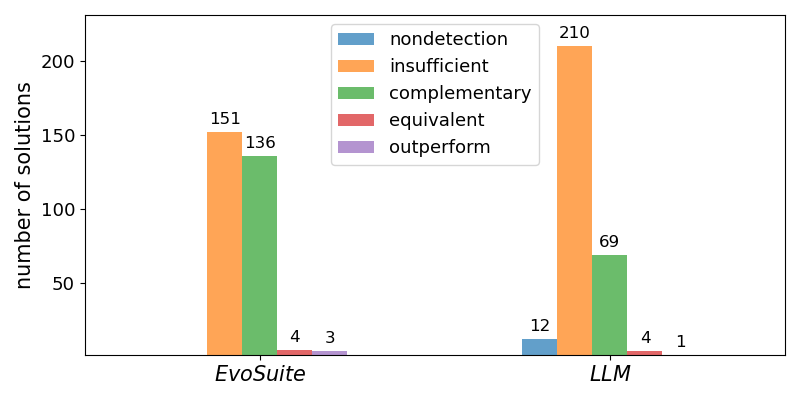
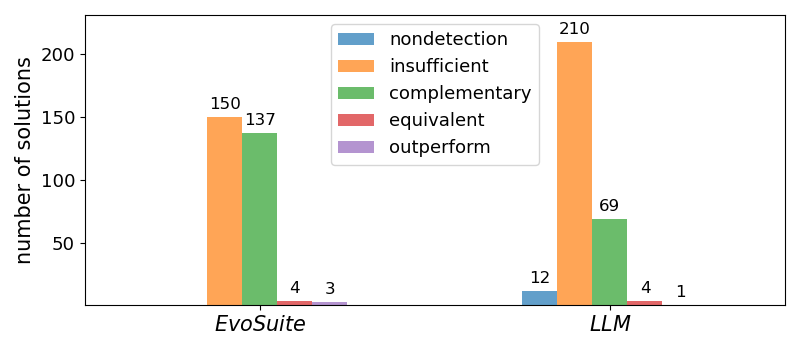
update RQ1 figure

diff --git a/src/evaluation/test_gen_results.py b/src/evaluation/test_gen_results.py
@@ -15,7 +15,7 @@ class TestGen:
         """
         self.root = Path("/Users/ruizhengu/Projects")
         self.project_home = self.root / "ICST-2025-Assignment-Projects"
-        self.generated_tests_path = self.project_home / "resource/test_gen/evosuite_7"
+        self.generated_tests_path = self.project_home / "resource/test_gen/evosuite_10"
         # self.generated_tests_path = self.project_home / "resource/test_gen/Edu_LLM"
         self.generated_tests = list(self.generated_tests_path.rglob("*"))
         self.model_solution = Path("/Users/ruizhengu/Experiments/model_solution")
@@ -24,7 +24,7 @@ class TestGen:
                                 submission.is_dir() and submission.name != ".git"]
         self.method_file_json = self.project_home / "resource/method_files.json"
         self.method_of_interest_file_json = self.project_home / "resource/method_of_interest_test.json"
-        self.method_coverage_gen_json = self.project_home / "resource/method_coverage_evosuite_7.json"
+        self.method_coverage_gen_json = self.project_home / "resource/method_coverage_evosuite_10.json"
         # self.method_coverage_gen_json = self.project_home / "resource/method_coverage_llm.json"
         # self.method_coverage_gen_json = self.project_home / "resource/method_coverage_edu_llm.json"
         self.method_coverage_teacher_json = self.project_home / "resource/method_coverage.json"
@@ -173,19 +173,7 @@ class TestGen:
         return [insufficient, complementary, equivalent, outperform]
 
     def get_evosuite_results(self):
-        es_json = [self.project_home / f"resource/method_coverage_evosuite_{i}.json" for i in range(1, 6)]
-
-        # json_es1 = self.project_home / "resource/method_coverage_evosuite_1.json"
-        # json_es2 = self.project_home / "resource/method_coverage_evosuite_2.json"
-        # json_es3 = self.project_home / "resource/method_coverage_evosuite_3.json"
-        # json_es4 = self.project_home / "resource/method_coverage_evosuite_4.json"
-        # json_es5 = self.project_home / "resource/method_coverage_evosuite_5.json"
-        #
-        # data_es1 = self.buggy_methods_results(json_es1)
-        # data_es2 = self.buggy_methods_results(json_es2)
-        # data_es3 = self.buggy_methods_results(json_es3)
-        # data_es4 = self.buggy_methods_results(json_es4)
-        # data_es5 = self.buggy_methods_results(json_es5)
+        es_json = [self.project_home / f"resource/method_coverage_evosuite_{i}.json" for i in range(1, 11)]
 
         return [self.buggy_methods_results(j) for j in es_json]
 
@@ -213,7 +201,7 @@ class TestGen:
         }, index=["$EvoSuite$", "$LLM$"])
 
         ax = data.plot(kind="bar", figsize=(8, 3.5), rot=0, alpha=0.7)
-        y_max = max(data.max()) * 1.1  # 20% space above the tallest bar
+        y_max = max(data.max()) * 1.1
         ax.set_ylim(1, y_max)
 
         plt.ylabel("number of solutions", fontsize=15)
@@ -233,6 +221,6 @@ if __name__ == '__main__':
     test_gen = TestGen()
     # test_gen.replace_tests()
     # test_gen.check_compilation()
-    test_gen.failed_tests_method_coverage()
-    # test_gen.buggy_methods_plot()
+    # test_gen.failed_tests_method_coverage()
+    test_gen.buggy_methods_plot()
     # test_gen.statistical_measure()
